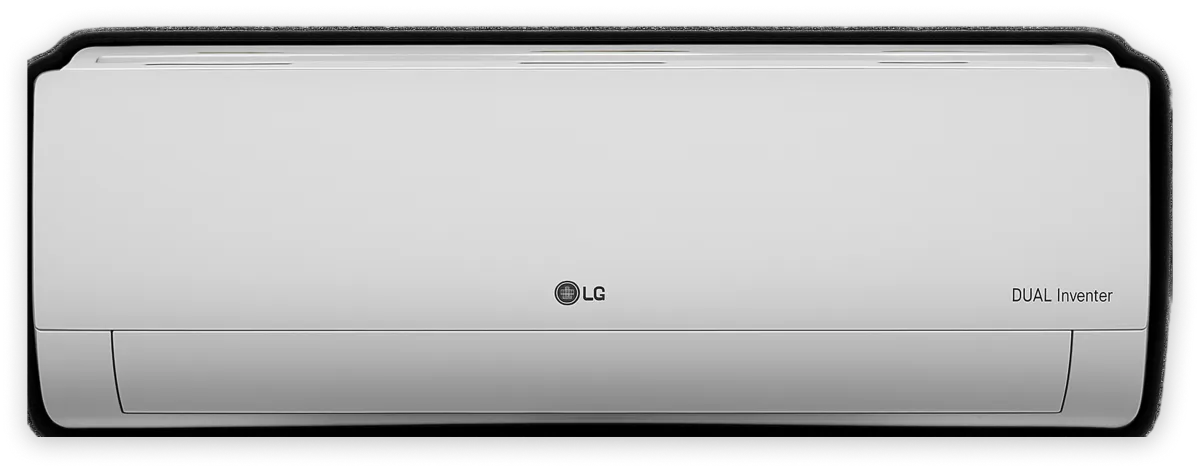
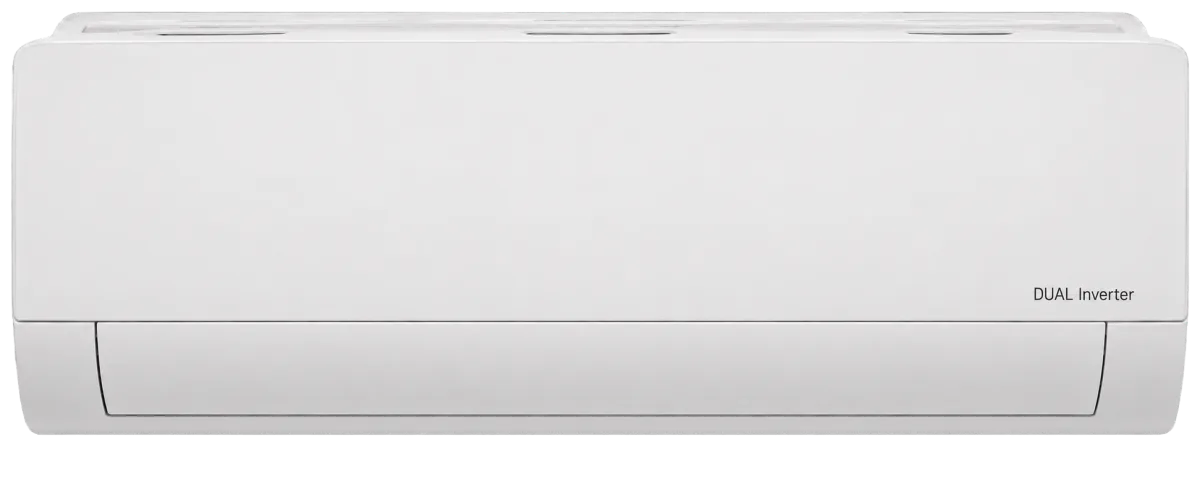
minor fixes in calculator implementation

diff --git a/src/app/calculator/calculator.module.css b/src/app/calculator/calculator.module.css
@@ -58,6 +58,8 @@
   color: var(--text);
   line-height: 1.55;
   font-size: 16px;
+  /* Breathing room before the site footer on both the form and results views. */
+  padding-bottom: 80px;
 }
 
 /* Full-viewport ambient gradient, sits behind the site chrome + content. */
@@ -77,22 +79,26 @@
   background: var(--blue);
   color: #fff;
 }
-.page img {
+/* Element resets scoped to the page but at ZERO specificity (:where) so any
+   component class — .calc-btn, .chip, .act, .back-btn, … — always wins. Without
+   :where(), `.page button` (0-1-1) would beat single-class button styles (0-1-0)
+   and strip their gradient/colour/border (the calc-btn rendered plain white). */
+:where(.page) img {
   max-width: 100%;
   display: block;
 }
-.page button {
+:where(.page) button {
   font-family: inherit;
   cursor: pointer;
   border: none;
   background: none;
   color: inherit;
 }
-.page input,
-.page select {
+:where(.page) input,
+:where(.page) select {
   font-family: inherit;
 }
-.page a {
+:where(.page) a {
   color: inherit;
   text-decoration: none;
 }